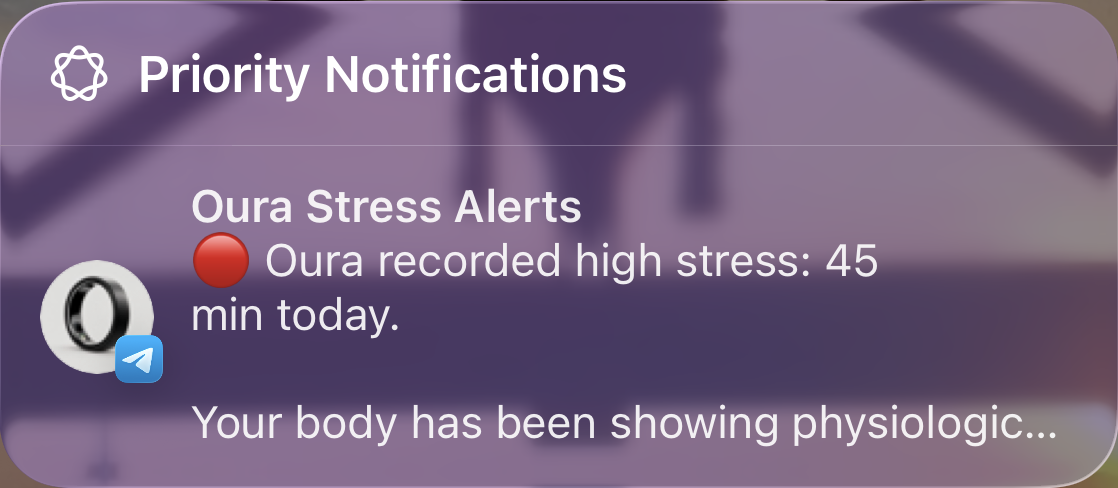
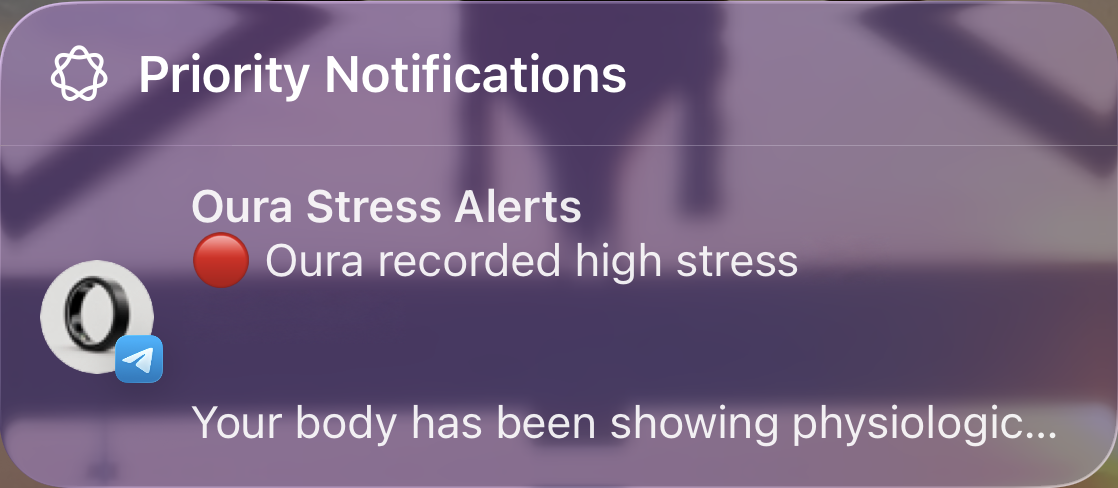
Shorten first stress alert and demo notification headline

Changed region(s): [[0.1521, 0.6148, 0.3649, 0.6762], [0.7299, 0.4918, 0.7907, 0.584]]

diff --git a/tests/test_oura_stress_telegram.py b/tests/test_oura_stress_telegram.py
@@ -122,7 +122,9 @@ class AlertRuleTests(Base):
         self.http.stress = [(200, stress_body(today_item(900)))]
         self.assertEqual(self.check(), 0)
         self.assertEqual(len(self.http.sent), 1)
-        self.assertIn("Oura recorded high stress:</b> 15 min today", self.http.sent[0])
+        self.assertEqual(self.http.sent[0].split("\n\n")[0],
+                         "\U0001F534 <b>Oura recorded high stress</b>")
+        self.assertNotIn("min today", self.http.sent[0])
         state = self.state()
         self.assertEqual((state["last_stress_high"], state["last_date"]), (900, "2026-10-09"))
         self.assertEqual(state["last_data_day"], "2026-10-09")
@@ -151,12 +153,14 @@ class AlertRuleTests(Base):
         self.set_state(last_date="2026-10-08", last_stress_high=3000)
         self.http.stress = [(200, stress_body(today_item(600)))]
         self.check()
-        self.assertIn("Oura recorded high stress:</b> 10 min", self.http.sent[0])
+        self.assertIn("Oura recorded high stress</b>\n\n", self.http.sent[0])
+        self.assertEqual(self.state()["last_stress_high"], 600)
 
     def test_sub_minute_values_round_up_to_one(self):
         self.http.stress = [(200, stress_body(today_item(30)))]
         self.check()
-        self.assertIn("1 min today", self.http.sent[0])
+        self.assertIn("Oura recorded high stress</b>\n\n", self.http.sent[0])
+        self.assertEqual(self.state()["last_stress_high"], 30)
         self.set_state(last_date="2026-10-09", last_stress_high=60)
         self.http.stress = [(200, stress_body(today_item(90)))]
         self.check()
@@ -172,7 +176,8 @@ class AlertRuleTests(Base):
         self.assertEqual(self.state()["last_stress_high"], 0)
         self.http.stress = [(200, stress_body(today_item(600)))]
         self.check()
-        self.assertIn("10 min today", self.http.sent[0])
+        self.assertEqual(len(self.http.sent), 1)
+        self.assertEqual(self.state()["last_stress_high"], 600)
 
     def test_send_failure_keeps_baseline_and_records_delivery_error(self):
         self.http.stress = [(200, stress_body(today_item(900)))]
@@ -192,7 +197,8 @@ class AlertRuleTests(Base):
             {"day": "2026-10-10", "stress_high": 7000}, today_item(600),
             {"day": "2026-10-08", "stress_high": 5000}))]
         self.check()
-        self.assertIn("10 min", self.http.sent[0])
+        self.assertEqual(len(self.http.sent), 1)
+        self.assertEqual(self.state()["last_stress_high"], 600)
         query = dict(urllib.parse.parse_qsl(urllib.parse.urlsplit(self.http.calls[0][1]).query))
         self.assertEqual(query, {"start_date": "2026-10-08", "end_date": "2026-10-10"})
 

diff --git a/oura_stress_telegram.py b/oura_stress_telegram.py
@@ -924,7 +924,7 @@ def plan_alert(stress_high: Optional[int], state: dict, today: str,
         return None, baseline
     total = minutes(stress_high)
     if baseline == 0:
-        message = (f"\U0001F534 <b>Oura recorded high stress:</b> {total} min today.\n\n"
+        message = ("\U0001F534 <b>Oura recorded high stress</b>\n\n"
                    "Your body has been showing physiological stress. If it fits, take a "
                    "short break, a few slow breaths, or a walk.")
     else:

diff --git a/docs/DEMOS.md b/docs/DEMOS.md
@@ -8,7 +8,7 @@ The README demo stays inside one iPhone frame throughout:
 4. A simulated tap on the actual Oura Home Screen icon opens Oura Today.
 5. A simulated tap on Stress opens the real Daytime Stress screen.
 
-<img src="images/demo-walkthrough.gif?v=0ea17395ecbf" alt="Full iPhone walkthrough: notification arrives, unlock, tap Oura, then open Daytime Stress." width="420">
+<img src="images/demo-walkthrough.gif?v=76cffd8546ba" alt="Full iPhone walkthrough: notification arrives, unlock, tap Oura, then open Daytime Stress." width="420">
 
 [Still image](images/demo-walkthrough.png)
 
@@ -21,10 +21,14 @@ Mirroring on the Mac on October 11, 2026. The Oura app screens and graph are rea
 with their original text, points, colors and readings. The navigation animation
 follows the native transition observed during capture.
 
-The lock-screen notification shows 45 minutes at 13:28. The later Home Screen and
-Oura captures show 14:12 and 14:15, when the total had reached one hour. The walkthrough
-compresses this passage of time without an intertitle. The data was not changed to make the
-screens agree, and the demo does not imply an instant Oura reading or alert.
+The lock-screen notification was captured at 13:28. Its headline was edited to
+"Oura recorded high stress", removing the daily minute total to match the current
+first-alert wording. The later Home Screen and Oura captures show 14:12 and 14:15,
+when the total had reached one hour. The walkthrough compresses this passage of
+time without an intertitle. Oura readings were not changed to make the screens
+agree, and the demo does not imply an instant Oura reading or alert.
+The original preview spacing was retained, so the gap below the headline is wider
+and less body text is visible than a newly rendered alert may show.
 
 The empty lock screen was made from the same screenshot by removing notification
 cards and widgets and filling the covered wallpaper with image-generation cleanup.
@@ -46,9 +50,10 @@ GIF encoding uses a palette per frame and light lossy compression to reduce the
 download size. These presentation edits do not change stress data.
 
 The Telegram notification opens Telegram when tapped. The demo correctly unlocks
-and taps the separate Oura icon to open Oura. The alert was manually triggered
-using the tool's normal formatter and a real API reading; delivery was confirmed
-on the physical iPhone lock screen. Notification appearance varies with iOS,
+and taps the separate Oura icon to open Oura. The original alert was manually
+triggered using the tool's then-current formatter and a real API reading; delivery
+was confirmed on the physical iPhone lock screen. The shortened headline was not
+sent as a new live alert. Notification appearance varies with iOS,
 Telegram and the person's settings.
 
 ## Rebuild
@@ -69,7 +74,8 @@ gifsicle -O3 --lossy=20 /path/to/scratch/unoptimized.gif -o /path/to/repo/docs/i
 cp /path/to/scratch/frames/poster.png /path/to/repo/docs/images/demo-walkthrough.png
 ```
 
-All iPhone and app lettering is in the captured source pixels. Review the full loop
+All iPhone and app lettering is in the source images, including the edited
+notification headline and generic calendar titles. Review the full loop
 on light and dark backgrounds, including the blank opening, notification arrival,
 each visible tap, both app transitions and the loop seam.
 

diff --git a/SETUP.md b/SETUP.md
@@ -181,7 +181,7 @@ python3 oura_stress_telegram.py settings --min-increase 15
 
 - Your Telegram bot token, Oura app keys and Oura login are saved in `~/.config/oura-stress-telegram/` on Mac/Linux or `%LOCALAPPDATA%\oura-stress-telegram` on Windows. Unix files use private permissions; Windows access is restricted to your user, SYSTEM and local administrators.
 - The program only asks Oura for **daily** data and only reads the daily stress summary.
-- Telegram messages pass through Telegram's servers like any bot message. Alerts contain only minutes of stress. Problem notices also include the error and the command to run, which shows folder paths on your computer.
+- Telegram messages pass through Telegram's servers like any bot message. Alerts report recorded high stress; later alerts also include stress minutes. Problem notices also include the error and the command to run, which shows folder paths on your computer.
 - To remove everything: run `uninstall --delete-data`, delete your application at [developer.ouraring.com/applications](https://developer.ouraring.com/applications), and delete the bot by sending `/deletebot` to @BotFather.
 
 ## Project status
@@ -198,8 +198,9 @@ shows a full phone walkthrough using that notification and real Home Screen and
 Oura captures. The lock screen was cleaned, covered wallpaper was reconstructed,
 Home Screen calendar titles were made generic, and interactions and transitions
 were simulated. The calendar layout, event times and app notification counts remain.
-Notification text, graph points
-and stress readings are unchanged. The walkthrough compresses the time between captures.
+The notification headline was shortened to "Oura recorded high stress" to match
+the current first-alert wording. Graph points and Oura stress readings are unchanged.
+The walkthrough compresses the time between captures.
 It is an edited walkthrough, not a continuous recording or an instant-alert claim.
 
 The October 10, 2026 live macOS run verified fresh-app setup, Telegram delivery,

diff --git a/RELEASE_CHECKLIST.md b/RELEASE_CHECKLIST.md
@@ -133,6 +133,26 @@ review used requested xhigh effort and reported standard speed, scoring 95/100.
 The revised 17.27-second GIF has SHA-256
[1 lines of base64/hex data omitted]
 
+### 2026-10-11 notification headline
+
+The first stress alert now begins "Oura recorded high stress", without the daily
+minute total. The alert rule, saved baseline, later-increase messages and remaining
+first-alert text are unchanged. The README GIF and poster use the same shortened
+headline, edited in the original notification crop. Only the removed punctuation
+and duration areas were changed; the surrounding captured pixels are preserved.
+The complete animation timeline, including its extended notification hold, is
+unchanged. The 123-test suite passes on both local Python versions with 10 expected
+platform skips each. This wording change was not sent as a new live phone alert.
+
+Opus 5.5 accepted the exact GIF and formatter change in one targeted light review
+at requested xhigh effort and reported standard speed: "AGREE. The change does
+what was asked." It scored 88/100 with no blocking findings. Follow-up documentation
+clarifies retained preview spacing, the original formatter used for live delivery,
+and first-alert versus later-alert contents. Those wording fixes were checked by
+the host after review. Earlier artwork remains labeled historical. The accepted
+GIF has SHA-256
[1 lines of base64/hex data omitted]
+
 ### 2026-10-11 bot picture
 
 The repository includes a generated, unbranded ring JPEG. Guided setup sets it only

diff --git a/README.md b/README.md
@@ -9,5 +9,5 @@ Set up https://github.com/fkb032/oura-stress-notification for me.
 ```
 
 <p align="center">
-  <img src="docs/images/demo-walkthrough.gif?v=0ea17395ecbf" alt="Edited iPhone walkthrough using real captures: a notification arrives on the lock screen, then the phone unlocks, Oura opens, and Daytime Stress appears. Taps and transitions are simulated." width="420">
+  <img src="docs/images/demo-walkthrough.gif?v=76cffd8546ba" alt="Edited iPhone walkthrough using real captures: a notification arrives on the lock screen, then the phone unlocks, Oura opens, and Daytime Stress appears. Taps and transitions are simulated." width="420">
 </p>
